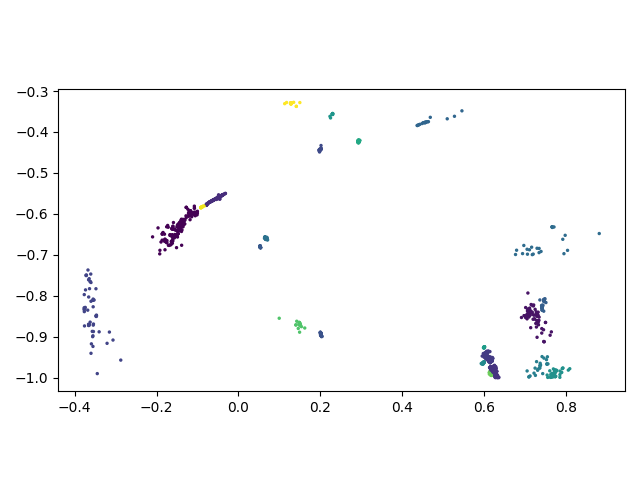
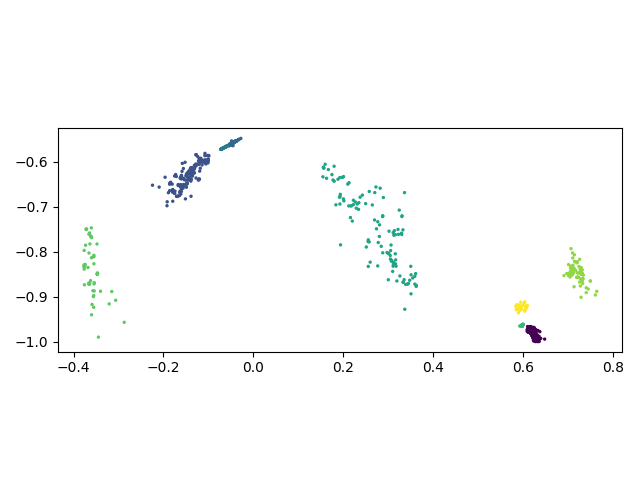
Updates

diff --git a/lin_scan_current.py b/lin_scan_current.py
@@ -29,17 +29,30 @@ def sqrtm(mat):
     return 1 / t * (mat + s * np.eye(2))
 
 
+def sqrtm2(A):
+    s = np.sqrt(A[0, 0] * A[1, 1] - A[0, 1] ** 2)
+    t = np.sqrt(A[0, 0] + A[1, 1] + 2 * s)
+    return 1 / t * (A + s * np.eye(2))
+
+
 def kl_dist(x, y):
     # (x_1, x_2, s_11, s_12, s_22)
     cov1 = np.array([[x[2], x[3]], [x[3], x[4]]])
-    inv1 = np.linalg.inv(cov1)
+    inv1 = 1 / (x[2] * x[4] - x[3] * x[3]) * np.array([[x[4], -x[3]], [-x[3], x[2]]])
+    invsqrt1 = sqrtm2(inv1)
     p1 = np.array([x[0], x[1]])
 
     cov2 = np.array([[y[2], y[3]], [y[3], y[4]]])
-    inv2 = np.linalg.inv(cov2)
+    inv2 = 1 / (y[2] * y[4] - y[3] * y[3]) * np.array([[y[4], -y[3]], [-y[3], y[2]]])
+    invsqrt2 = sqrtm2(inv2)
     p2 = np.array([y[0], y[1]])
 
-    return np.max([(p1 - p2).transpose() @ (inv1 + inv2) @ (p1 - p2) + np.trace(inv1 @ cov2 + inv2 @ cov1) - 4, 0])
+    dist = 1 / 2 * np.sqrt(np.linalg.norm(invsqrt2 @ cov1 @ invsqrt2 - np.eye(2), ord='fro')) \
+           + 1 / 2 * np.sqrt(np.linalg.norm(invsqrt1 @ cov2 @ invsqrt1 - np.eye(2), ord='fro')) \
+           + 1 / np.sqrt(2) * np.sqrt((p1 - p2).transpose() @ inv1 @ (p1 - p2)) \
+           + 1 / np.sqrt(2) * np.sqrt((p1 - p2).transpose() @ inv2 @ (p1 - p2))
+
+    return np.max([dist, 0])
 
 
 def mmd_dist(x, y):
@@ -47,7 +60,7 @@ def mmd_dist(x, y):
     c2 = []
 
     if len(x) != len(y):
-        raise "Not the same length"
+        raise Exception("Not the same length")
 
     for i in range(int(len(x) / 2)):
         c1.append(np.array([x[2 * (i - 1)], x[2 * i - 1]]))
@@ -266,8 +279,6 @@ def kl_embed_scan(dataset, eps, min_pts, ecc_pts):
     return kl_db_scan(embeddings, eps, min_pts)
 
 
-
-
 def was_embed_scan(dataset, eps, min_pts, ecc_pts):
     kd = KDTree(dataset)
 
@@ -445,7 +456,7 @@ if __name__ == '__main__':
     # plt.show()
 
     x_range = [-1, 1]
-    y_range = [-1, 1]
+    y_range = [-1, -.4]
 
     x_filt = lambda x: x_range[0] <= x <= x_range[1]
     y_filt = lambda y: y_range[0] <= y <= y_range[1]
@@ -459,12 +470,12 @@ if __name__ == '__main__':
     ax = fig.add_subplot(111)
     ax.set_aspect('equal', adjustable='box')
 
-    plt.scatter(dataset[:, 0], dataset[:, 1], marker='o', s=(2*72./fig.dpi)**2)
+    plt.scatter(dataset[:, 0], dataset[:, 1], marker='o', s=(2 * 72. / fig.dpi) ** 2)
     plt.show()
 
-    eps = 8
-    min_pts = 10
-    threshold = .4
+    eps = np.sqrt(25)
+    min_pts = 35
+    threshold = .5
     ecc_pts = 20
 
     multiplier = 1
@@ -475,7 +486,7 @@ if __name__ == '__main__':
     ax = fig.add_subplot(111)
     ax.set_aspect('equal', adjustable='box')
 
-    plt.scatter(dataset[:, 0], dataset[:, 1], c=typelist, marker='o', s=(2*72./fig.dpi)**2)
+    plt.scatter(dataset[:, 0], dataset[:, 1], c=typelist, marker='o', s=(2 * 72. / fig.dpi) ** 2)
 
     plt.show()
 
@@ -486,7 +497,7 @@ if __name__ == '__main__':
     ax = fig.add_subplot(111)
     ax.set_aspect('equal', adjustable='box')
 
-    plt.scatter(temp[:, 0], temp[:, 1], c=temp_list, marker='o', s=(2*72./fig.dpi)**2)
+    plt.scatter(temp[:, 0], temp[:, 1], c=temp_list, marker='o', s=(2 * 72. / fig.dpi) ** 2)
     plt.show()
 
     for cat in range(max(typelist)):
@@ -501,7 +512,7 @@ if __name__ == '__main__':
     ax = fig.add_subplot(111)
     ax.set_aspect('equal', adjustable='box')
 
-    plt.scatter(temp[:, 0], temp[:, 1], c=temp_list, marker='o', s=(2*72./fig.dpi)**2)
+    plt.scatter(temp[:, 0], temp[:, 1], c=temp_list, marker='o', s=(2 * 72. / fig.dpi) ** 2)
     plt.show()
 
     # clusters = set(temp_list)
